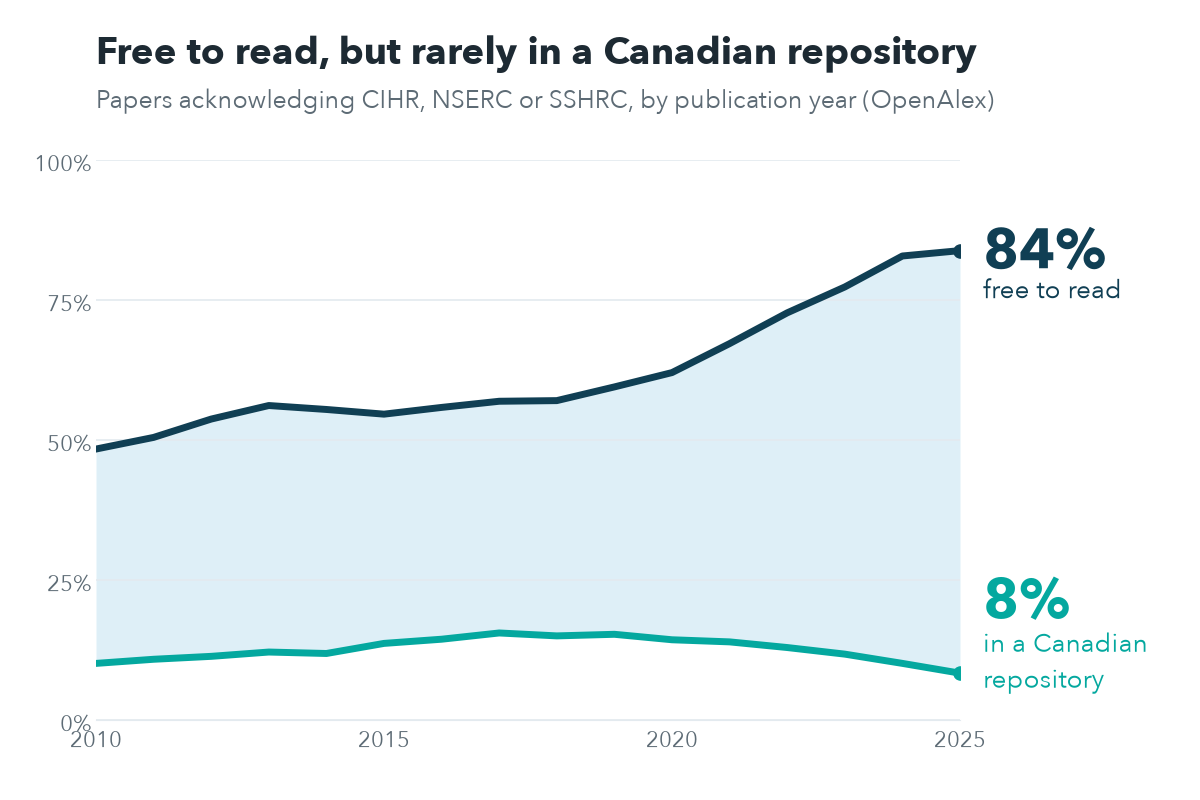
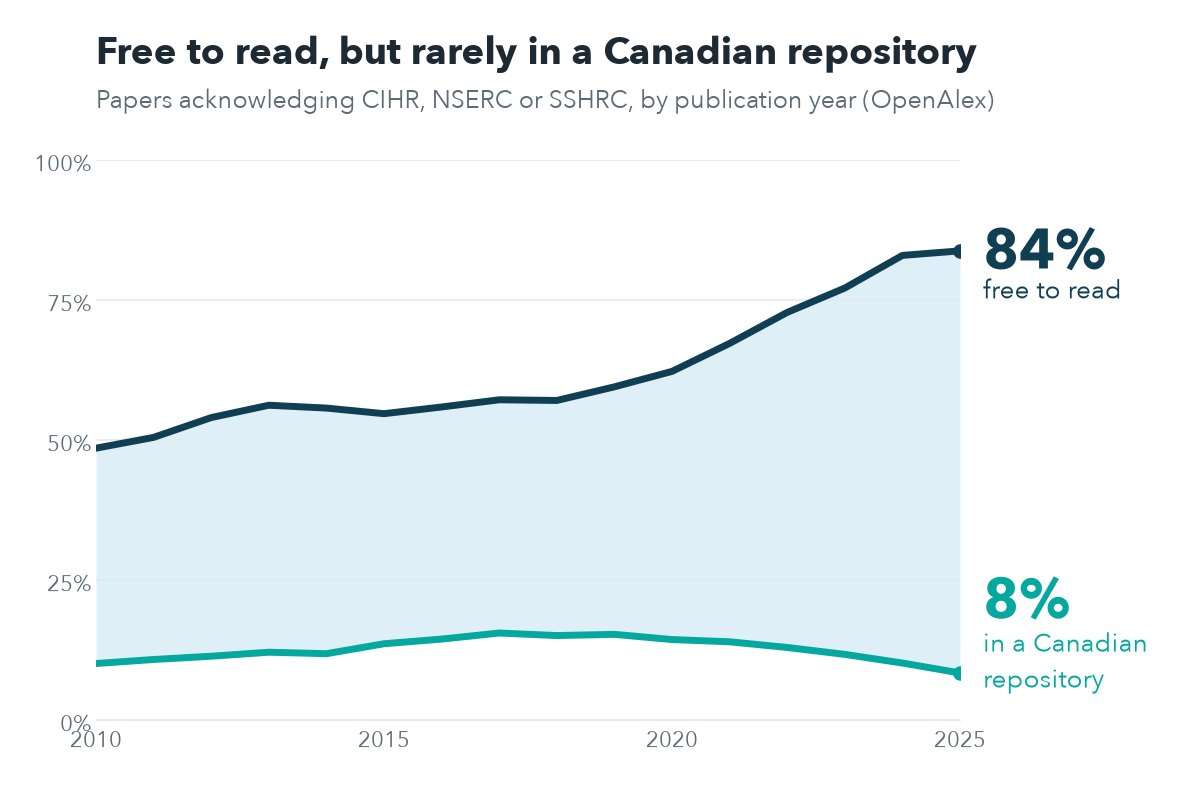
Field note (OA monitor): data folder tidy-up: README, MANIFEST (number -> script -> file), figure, policy timeline
Claude-Session: https://claude.ai/code/session_017UVk4MabpaXwBixAKJfaGg

diff --git a/data/2026-where-canadas-open-research-lives/MANIFEST.md b/data/2026-where-canadas-open-research-lives/MANIFEST.md
@@ -1,0 +1,42 @@
+# Manifest: which script makes which number
+
+Every chart and number in the post, the script that makes it, and where it lands. Run the scripts from this folder (`python3 scripts/X.py`) with `OPENALEX_API_KEY` set. Python 3.9+, standard library only (`make_figure.py` also needs matplotlib). "Latest year" is 2025. Shares are `100 × column / n`; "free to read" is `n − closed`.
+
+## Run order
+
+| Step | Command | Writes | Time |
+| --- | --- | --- | --- |
+| 1 | `python3 scripts/build_monitor.py` | `results/routes_by_year.csv`, `grant_numbers_by_year.csv`, `closed_by_publisher.csv`, `open_by_field.csv`, `funders.csv`, `kpi_comparison.csv`, `canadian_repositories.csv`, `monitor_data.json`; `monitor.html` | ~90 s |
+| 2 | `python3 scripts/make_figure.py` | `figure.png` (from `routes_by_year.csv`) | seconds |
+| 3 | `python3 scripts/build_trends.py` | `results/oa_by_university.csv`, `oa_by_province.csv`, `oa_by_country.csv`, `trends_data.json`; `trends.html` | ~60 s |
+| 4 | `python3 scripts/universities.py` (optional, not used in the post) | `results/university_oa_by_year.csv`, `policy_event_tests.csv` (reads `policy_timeline.csv`) | ~30 s |
+
+`python3 scripts/build_trends.py --from-json` rebuilds `trends.html` from `trends_data.json` without calling the API.
+
+## Post section to file
+
+| Post section | Number or chart | Script | File and field |
+| --- | --- | --- | --- |
+| Top | The monitor (embedded) | `build_monitor.py` | `monitor.html` (data inlined from `monitor_data.json`) |
+| Top | Card and share image: 84% free to read, 8% in a Canadian repository | `make_figure.py` | `figure.png`; `routes_by_year.csv` rows `set=tri` |
+| Most Canadian research is already free to read | 84% of 2025 tri-agency papers | `build_monitor.py` | `routes_by_year.csv` `set=tri, y=2025`: `(n − closed) / n` = 27,725 / 33,095 |
+| | 74% of all Canadian research | `build_monitor.py` | `routes_by_year.csv` `set=canada, y=2025`: 91,274 / 122,889 |
+| Almost none of it lives where the policy will ask | About 8% with a Canadian repository copy | `build_monitor.py` | `routes_by_year.csv` `set=tri, y=2025`: `carepo / n` = 2,779 / 33,095 |
+| | Fall since 2019 | `build_monitor.py` | `routes_by_year.csv` `set=tri`, `carepo / n` by year |
+| | Scholaris audit (26 repositories, about 595,000 records, 195 to 242 of 392 known deposits) | not in these scripts | OpenAlex's September 2026 harvest audit for the Scholaris community |
+| | U15 mean of 4.2% in own repositories | not in these scripts | Riddle et al. (2023) |
+| The way papers become open has changed | Hybrid 14% (2022) to 36% (2025) of tri-agency papers | `build_monitor.py` | `routes_by_year.csv` `set=tri`: `hybrid / n` = 4,535 / 31,319 and 11,949 / 33,095 |
+| | About US$72 million APC list value | `build_monitor.py` | `monitor_data.json` `apc.usd` = 71,848,777 over `apc.n_with` = 20,257 papers |
+| | Butler et al. US$27.6 million (2015-2018) | not in these scripts | Butler, Matthias, Simard, Mongeon and Haustein (2022) |
+| Diamond is bigger than it looks | 9% of all Canadian research, 4% of tri-agency papers | `build_monitor.py` | `routes_by_year.csv` `y=2025` `diamond / n`: canada 11,408 / 122,889; tri 1,478 / 33,095 |
+| | 13% of diamond papers list a funder in Crossref, against 55% to 59% for gold and hybrid | not in these scripts | checked separately on 19 Nov 2026 against Crossref funder deposits |
+| Grant numbers are the quiet win | CIHR 58%, NSERC 53%, SSHRC 53% (2025); 30% overall in 2015 | `build_monitor.py` | `grant_numbers_by_year.csv` `award / n`: CIHR 5,512 / 9,528; NSERC 11,235 / 21,047; SSHRC 1,985 / 3,779; TRI 2015 7,915 / 26,247 |
+| The closed papers sit at a handful of publishers | About 5,400 closed tri-agency papers; publishers and their policies | `build_monitor.py` | `routes_by_year.csv` `set=tri, y=2025` `closed` = 5,370; `closed_by_publisher.csv` |
+| How this compares with the agencies' numbers | Ours against the agencies' 2025 baselines: Canada 74.3% vs 68.6% (about 6 points); NSERC 82.6% vs 73.0%, SSHRC 77.6% vs 72.4%, CIHR 90.5% vs 85.3% (5 to 10 points) | `build_monitor.py` | `kpi_comparison.csv` `ours`, `agency` |
+| How Canada compares | Both interactive charts (embedded) | `build_trends.py` | `trends.html` (data inlined from `trends_data.json`) |
+| | Universities 22% to 48% (2010) and 67% to 82% (2025), counting those with at least 200 papers that year; U15 72% to 79% (2025) | `build_trends.py` | `oa_by_university.csv` `free_to_read / papers` by `year`; `u15` column |
+| | Quebec and British Columbia led most years to 2021; provinces within about six points in 2025 | `build_trends.py` | `oa_by_province.csv` `free_to_read / papers`: Quebec and British Columbia are the top two of the seven largest provinces each year from 2010 to 2021; in 2025 the ten provinces run from 71% (New Brunswick) to 78% (Manitoba) |
+| | Canada 39% against the world's 36% (2010), seven points behind (2020), 74% against 76% (2025) | `build_trends.py` | `oa_by_country.csv` rows `code=CA` and `country=World` |
+| | 43rd of the 55 countries with at least 20,000 papers in 2025 | `build_trends.py` | `oa_by_country.csv` `year=2025`, countries with `papers ≥ 20000`, ranked by `free_to_read / papers` |
+| | Hybrid up 7 points in Canada in 2024, against 3 in the United States | not saved by these scripts | check in a browser: Canada [2023](https://api.openalex.org/works?filter=type:article%7Creview,publication_year:2023,institutions.country_code:CA&group_by=oa_status) and [2024](https://api.openalex.org/works?filter=type:article%7Creview,publication_year:2024,institutions.country_code:CA&group_by=oa_status) (16.8% to 23.8%); United States [2023](https://api.openalex.org/works?filter=type:article%7Creview,publication_year:2023,institutions.country_code:US&group_by=oa_status) and [2024](https://api.openalex.org/works?filter=type:article%7Creview,publication_year:2024,institutions.country_code:US&group_by=oa_status) (13.4% to 16.5%) |
+| | University policies showed no clear signal | `universities.py` | `policy_event_tests.csv`; events in `policy_timeline.csv` |

diff --git a/data/2026-where-canadas-open-research-lives/README.md b/data/2026-where-canadas-open-research-lives/README.md
@@ -12,7 +12,7 @@ python3 scripts/build_trends.py  # the two trend charts (trends.html): every Can
 python3 scripts/universities.py  # optional: the university policy tests, not used in the post (about 60 requests)
 ```
 
-Standard library only. It rewrites `results/` and rebuilds `monitor.html` from `scripts/monitor_template.html`. A run takes about 90 seconds. The "data as of" date on the dashboard is the day you run it.
+Standard library only (`make_figure.py` also needs matplotlib). The scripts rewrite `results/` and rebuild `monitor.html` and `trends.html` from the templates in `scripts/`. All four take about two minutes. The "data as of" date on both pages is the day you run them. `MANIFEST.md` maps every number and chart in the post to its script and file.
 
 ## What's in `results/`
 
@@ -31,7 +31,7 @@ Standard library only. It rewrites `results/` and rebuilds `monitor.html` from `
 | `oa_by_country.csv` | The same for each country with at least 5,000 papers since 2010, and for the world (every paper with an author affiliation) |
 | `trends_data.json` | Everything above in the form `trends.html` reads |
 | `university_oa_by_year.csv` | Input to the policy tests (not used in the post): journal articles (2010-2025) for Canada and 30 universities (the U15 and 15 more) by year and OA route, plus copies in a Canadian repository |
-| `policy_timeline.csv` | Not used in the post. About 270 university and national events (policies, APC funds, repositories, CRKN agreements, federal policy), each with its source and a `verified` flag (yes, partial or UNVERIFIED). Rows with `tested` set are the ones tested |
+| `policy_timeline.csv` | Not used in the post. 252 university and national events (policies, APC funds, repositories, CRKN agreements, federal policy), each with its source and a `verified` flag: `yes` means a page we opened states the event (and its date, where one is given); `partial` means the page confirms the event but the date is inferred (a first Wayback capture, earliest deposit, registry date, fiscal-year report or "since" wording) or only the year is stated. Rows we couldn't confirm at a source were removed on 20 Nov 2026. Rows with `tested` set are the ones tested |
 | `policy_event_tests.csv` | Not used in the post. Each tested event: the change in the three years after against the three years before, net of Canada's change, and its rank against the other 29 universities in the same years (1 = largest gain) |
 
 ## Check the headline numbers in a browser
@@ -62,5 +62,9 @@ CIHR papers carrying a CIHR grant number:
 - **University tests** (set aside: none showed a clear signal) use the share open only through a repository (green) for institution-wide policies and the gold share for APC funds, with the overall open share alongside. A university counts if any author lists it (or a unit inside it). Events need two years on each side inside 2010-2025, so Ottawa's 2009 and Concordia's 2010 policies aren't tested. With ten policies tested, about one would rank in the top three of 30 by chance.
 - **Known harvesting artefacts in the university data:** repository copies at SFU, Victoria, Carleton and York all jump in 2017 and fall back in 2018 (SFU's policy is also from 2017, so read that year with care); Windsor's copies swing by 13 to 20 points a year since 2020; INRS, UQAM, Concordia (2011-2013) and Laurier swing by 5 to 13 points; Western falls from 21% in 2019 to 4% in 2025, much faster than the country. Recent years are low everywhere because deposits lag publication.
 - **Publisher policies** were read from the publishers' public pages on 18 Nov 2026.
+
+## Reproduction check (20 Nov 2026)
+
+All four scripts were re-run in a clean copy of this folder on 20 Nov 2026. Every file in `results/`, `monitor.html` and `trends.html` came out byte-identical to the published copies. `figure.png` was redrawn from the same results: the earlier copy had been drawn from the 19 Nov pull, and its labels (84%, 8%) didn't change. Removing the unconfirmed timeline rows changed no policy test. OpenAlex updates daily, so a later run will differ a little.
 
 Corrections: kyle@demes.ca.
